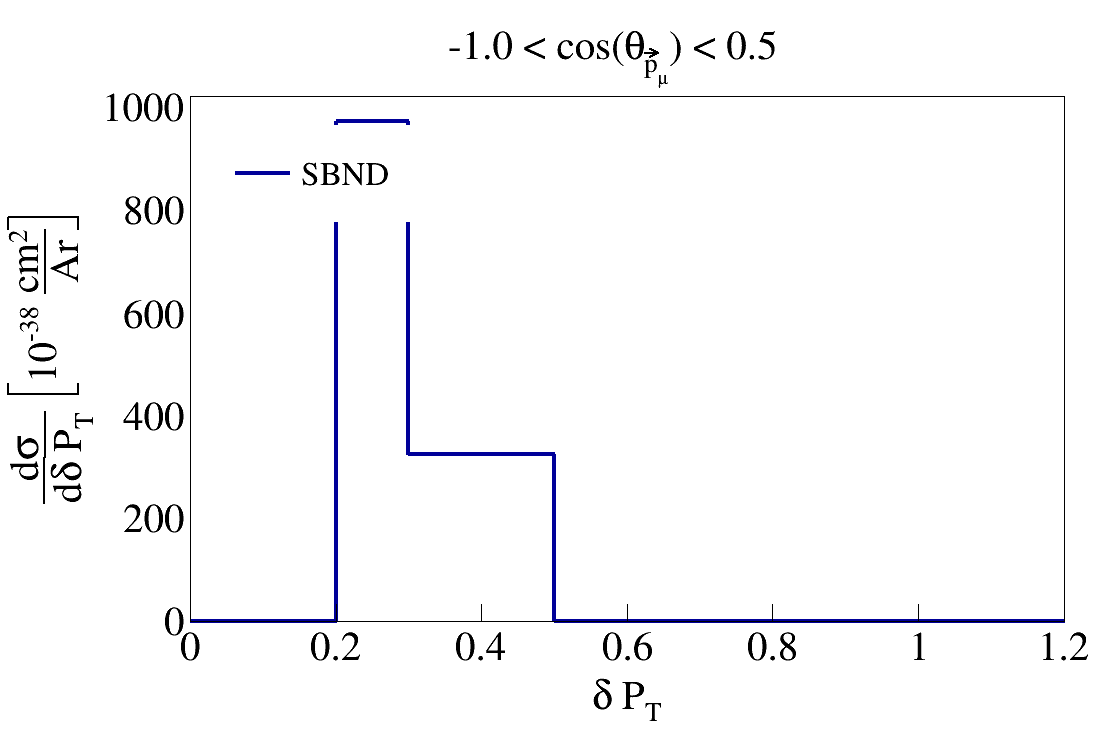
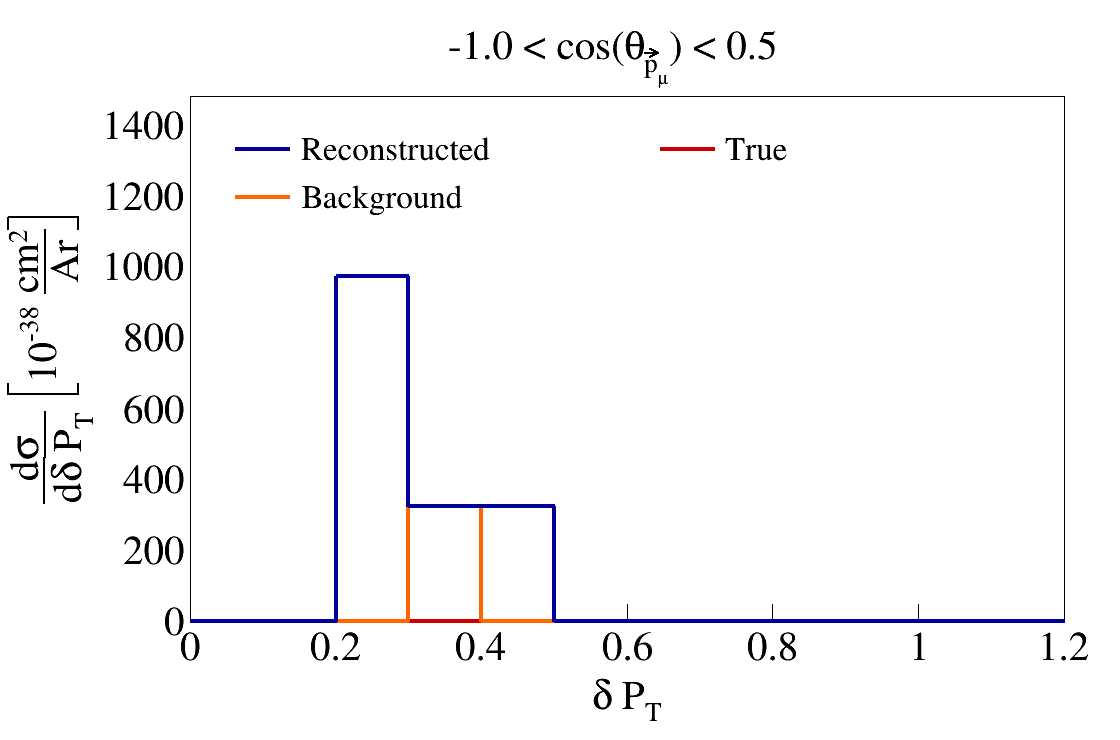
Add reco, true, and bkg to deserialized double diff plots

diff --git a/CAFAnaAnalysis/Scripts/SerialPlotGenerator.cpp b/CAFAnaAnalysis/Scripts/SerialPlotGenerator.cpp
@@ -48,11 +48,23 @@ void SerialPlotGenerator() {
     XAxisLabel.push_back("cos(#theta_{#vec{p}_{#mu},#vec{p}_{sum}})");
     YAxisLabel.push_back("#frac{d#sigma}{dcos(#theta_{#vec{p}_{#mu},#vec{p}_{sum}})} #left[10^{-38} #frac{cm^{2}}{Ar}#right]");
 
-
     const int NPlots = PlotNames.size();
+
+    // Samples for each plot (all reco, reco true, bkg)
+    std::vector<TString> SampleNames; std::vector<TString> Labels; std::vector<int> Colors;
+    SampleNames.push_back("_reco"); Labels.push_back("Reconstructed"); Colors.push_back(kBlue+2);
+    SampleNames.push_back("_true"); Labels.push_back("True"); Colors.push_back(kRed+1);
+    SampleNames.push_back("_bkg"); Labels.push_back("Background"); Colors.push_back(kOrange+7);
+
+    const int NSamples = SampleNames.size();
+
     for (int iPlot = 0; iPlot < NPlots; iPlot++) {
-        // Load histogram with serial plot
-        TH1D* TrueHisto(File->Get<TH1D>(PlotNames.at(iPlot)));
+        // Load true plots
+        std::vector<TH1D*> TruePlots; TruePlots.resize(NSamples);
+        for (int iSample = 0; iSample < NSamples; iSample++) {
+            TString PlotName = PlotNames[iPlot] + SampleNames[iSample];
+            TruePlots[iSample] = (TH1D*)(File->Get<TH1D>(PlotName));
+        }
         
         // Flatten out double differential plots
         auto [SliceDiscriminators, SliceBinning] = PlotNameToDiscriminator["True"+PlotNames[iPlot]+"Plot"];
@@ -60,8 +72,11 @@ void SerialPlotGenerator() {
         int StartIndex = 0;
 
         // Create vector to store deserialize plots
-        std::vector<TH1D*> Histos;
+        std::vector<std::vector<TH1D*>> Histos;
         Histos.resize(NSlices);
+        for (int iSlice = 0; iSlice < NSlices; iSlice++) {
+            Histos[iSlice].resize(NSamples);
+        }
 
         // Loop over slices
         for (int iSlice = 0; iSlice < NSlices; iSlice++) {
@@ -91,41 +106,50 @@ void SerialPlotGenerator() {
             leg->SetNColumns(2);
             leg->SetTextSize(TextSize*0.8);
             leg->SetTextFont(FontStyle);
-            
-            Histos[iSlice]= tools.GetHistoBins(
-                    TrueHisto,
+
+            for (int iSample = 0; iSample < NSamples; iSample++) {
+                Histos[iSlice][iSample]= tools.GetHistoBins(
+                    TruePlots[iSample],
                     SerialVectorLowBin.at(iSlice),
                     SerialVectorHighBin.at(iSlice),
                     SliceWidth,
                     SerialSliceBinning,
-                    "SBND"
+                    Labels[iSample]
                 );
-            Histos[iSlice]->SetLineWidth(4);
-            Histos[iSlice]->SetLineColor(602); // blue
+                Histos[iSlice][iSample]->SetLineWidth(4);
+                Histos[iSlice][iSample]->SetLineColor(Colors.at(iSample));
 
-            Histos[iSlice]->GetXaxis()->SetTitleFont(FontStyle);
-            Histos[iSlice]->GetXaxis()->SetLabelFont(FontStyle);
-            Histos[iSlice]->GetXaxis()->SetNdivisions(8);
-            Histos[iSlice]->GetXaxis()->SetLabelSize(TextSize);
-            Histos[iSlice]->GetXaxis()->SetTitle(XAxisLabel.at(iPlot));
-            Histos[iSlice]->GetXaxis()->SetTitleSize(TextSize);
-            Histos[iSlice]->GetXaxis()->SetTitleOffset(1.1);
-            Histos[iSlice]->GetXaxis()->CenterTitle();
+                Histos[iSlice][iSample]->GetXaxis()->SetTitleFont(FontStyle);
+                Histos[iSlice][iSample]->GetXaxis()->SetLabelFont(FontStyle);
+                Histos[iSlice][iSample]->GetXaxis()->SetNdivisions(8);
+                Histos[iSlice][iSample]->GetXaxis()->SetLabelSize(TextSize);
+                Histos[iSlice][iSample]->GetXaxis()->SetTitle(XAxisLabel.at(iPlot));
+                Histos[iSlice][iSample]->GetXaxis()->SetTitleSize(TextSize);
+                Histos[iSlice][iSample]->GetXaxis()->SetTitleOffset(1.1);
+                Histos[iSlice][iSample]->GetXaxis()->CenterTitle();
 
-            Histos[iSlice]->GetYaxis()->SetTitleFont(FontStyle);
-            Histos[iSlice]->GetYaxis()->SetLabelFont(FontStyle);
-            Histos[iSlice]->GetYaxis()->SetNdivisions(6);
-            Histos[iSlice]->GetYaxis()->SetLabelSize(TextSize);
-            Histos[iSlice]->GetYaxis()->SetTitle(YAxisLabel.at(iPlot));
-            Histos[iSlice]->GetYaxis()->SetTitleSize(TextSize);
-            Histos[iSlice]->GetYaxis()->SetTitleOffset(1.3);
-            Histos[iSlice]->GetYaxis()->SetTickSize(0);
-            Histos[iSlice]->GetYaxis()->CenterTitle();
+                Histos[iSlice][iSample]->GetYaxis()->SetTitleFont(FontStyle);
+                Histos[iSlice][iSample]->GetYaxis()->SetLabelFont(FontStyle);
+                Histos[iSlice][iSample]->GetYaxis()->SetNdivisions(6);
+                Histos[iSlice][iSample]->GetYaxis()->SetLabelSize(TextSize);
+                Histos[iSlice][iSample]->GetYaxis()->SetTitle(YAxisLabel.at(iPlot));
+                Histos[iSlice][iSample]->GetYaxis()->SetTitleSize(TextSize);
+                Histos[iSlice][iSample]->GetYaxis()->SetTitleOffset(1.3);
+                Histos[iSlice][iSample]->GetYaxis()->SetTickSize(0);
+                Histos[iSlice][iSample]->GetYaxis()->CenterTitle();
 
-            PlotCanvas->cd();
-            Histos[iSlice]->Draw("hist same");
-            leg->AddEntry(Histos[iSlice],"SBND","l");
+                double imax = TMath::Max(Histos[iSlice][iSample]->GetMaximum(),Histos[iSlice][0]->GetMaximum());
 
+                double YAxisRange = 1.15*imax;
+                Histos[iSlice][iSample]->GetYaxis()->SetRangeUser(0.,YAxisRange);
+                Histos[iSlice][0]->GetYaxis()->SetRangeUser(0.,YAxisRange);			
+
+                PlotCanvas->cd();
+                Histos[iSlice][iSample]->Draw("hist same");
+                Histos[iSlice][0]->Draw("hist same");	
+
+                leg->AddEntry(Histos[iSlice][iSample],Labels[iSample],"l");
+            }
             PlotCanvas->cd();
             leg->Draw();
 

diff --git a/CAFAnaAnalysis/Scripts/Selection.C b/CAFAnaAnalysis/Scripts/Selection.C
@@ -225,7 +225,7 @@ void Selection() {
         PlotCanvas->SaveAs(dir+"/Figs/CAFAna/"+PlotNames[i]+".png");
 
         // Save to root file
-        SaveFile->WriteObject(RecoHisto, PlotNames[i]);
+        SaveFile->WriteObject(RecoHisto, PlotNames[i]+"_reco");
         SaveFile->WriteObject(RecoTrueHisto, PlotNames[i]+"_true");
         SaveFile->WriteObject(RecoBkgHisto, PlotNames[i]+"_bkg");
 
